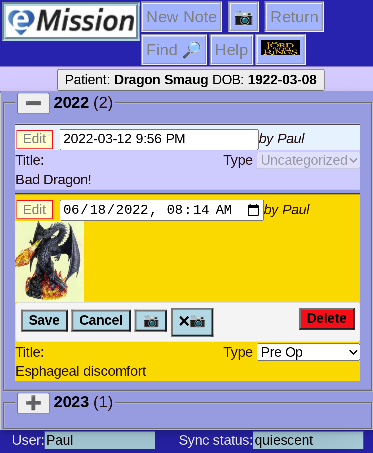
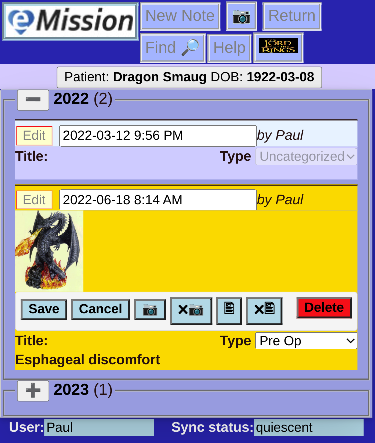
Fix note display of text and update some documentation

diff --git a/js/app.js b/js/app.js
@@ -652,10 +652,11 @@ class ImageNote extends ImageImbedded {
         }
     }
 
-    display_text() {
+    display_all() {
         this.parent.querySelector(".entryfield_text").innerText = this.text;
         this.parent.querySelector(".entryfield_title").innerText = this.title;
         this.parent.querySelector("select").value = this.category;
+        this.display_image();
     }
 
     store() {
@@ -672,8 +673,7 @@ class ImageNote extends ImageImbedded {
     edit() {
         this.addListen();
         this.buttonsdisabled( true );
-        this.display_image();
-        this.display_text();
+        this.display_all();
     }
 
     addListen() {
@@ -3337,7 +3337,7 @@ class NoteLister {
         if ( "doc" in note ) {
             cloneClass( ".notetemplate", li );
             img=new ImageNote(li,note.doc);
-            img.display_image();
+            img.display_all();
         }    
         
         let edit_note = () => {

diff --git a/src/NoteEditTask.md b/src/NoteEditTask.md
@@ -21,11 +21,14 @@ Two things happened:
 ![](images/Note2b.png)
 
 1. The date field can be altered. It defaults to the date of note creation.
-2. The note category (e.g. Preop, Postop, ...) can be chosen
-3. The note text can be changed. This is free form text of any length
-4. A set of control buttons are displayed:
+2. A set of control buttons are displayed:
   * **Save** your changes (and finish the edit)
   * **Cancel** any changes
   * **Camera** Add or change the picture
   * **xCamera** Remove the picture
-  * **Delete** remove the entire note
+  * **Document** Add or change an attached file
+  * **xDocument** Remove the attached file
+  * **Delete** remove the entire note. 
+3. The Note title can be edited
+4. The note category (e.g. Preop, Postop, ...) can be chosen
+5. The note text can be changed. This is free form text of any length

diff --git a/src/Tasks.md b/src/Tasks.md
@@ -2,12 +2,12 @@
 
 ![](images/bean.jpg)
 
-Once you get familiar with eMission, all the tasks should be intuitive.
+Once you get familiar with eMission, you will find all the tasks intuitive.
 
 * Each page has **Help** to jump to a detailed description
-* The layout and presentation should be [consistent](Layout.html)
+* The layout and presentation is [consistent](Layout.html)
 
-But to get started, a couple of common tasks are presented in detail. You can go through the steps in order, using the right and left arrow on the side of the pages.
+To get you started, a couple of common tasks are presented in detail. You can go through the steps in order, using the right and left arrow on the side of the pages.
 
 * [Create a new patient](AddPatient.html)
 * [Add a note and/or picture](NoteEdit.html)

diff --git a/src/Overview.md b/src/Overview.md
@@ -7,7 +7,7 @@ eMission is a simple patient database for use by humanitarian medical missions.
 * It works on most smart phones
 * It works even with bad cell service or intermittent wifi
 * It's really easy to use
-* It's easy to add photos
+* It's easy to add photos and documents
 * The team can share the information
 * Security is build in
 
@@ -15,7 +15,7 @@ eMission is a simple patient database for use by humanitarian medical missions.
 
 ## Examples:
 
-*To preserve patient confidentiality, only Fantasy creatures are shown*
+*To preserve patient confidentiality, only fictional characters are shown*
 
 ### Main Menu:
 

diff --git a/src/NoteNew.md b/src/NoteNew.md
@@ -16,9 +16,17 @@ or from the **Note List**
 
 Once started, all the fields of the note can be added including 
 
-* text
+* The initial edit display
 
 ![](images/NoteNewx2.png)
+
+* Add text, category and title
+
+![](images/NoteNewx3.png)
+
+* Add a document
+
+![](images/NoteNewx3x.png)
 
 * images
 
